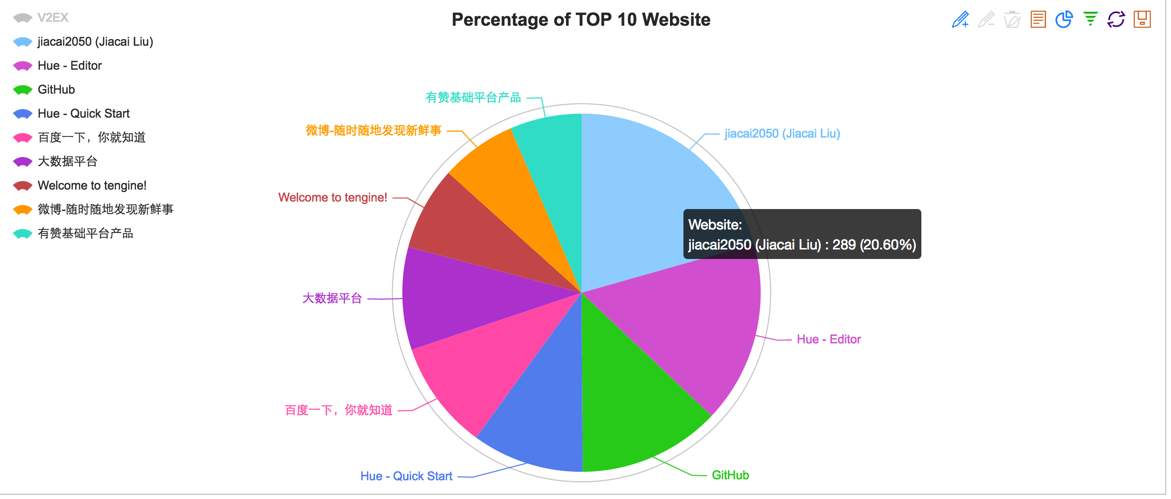
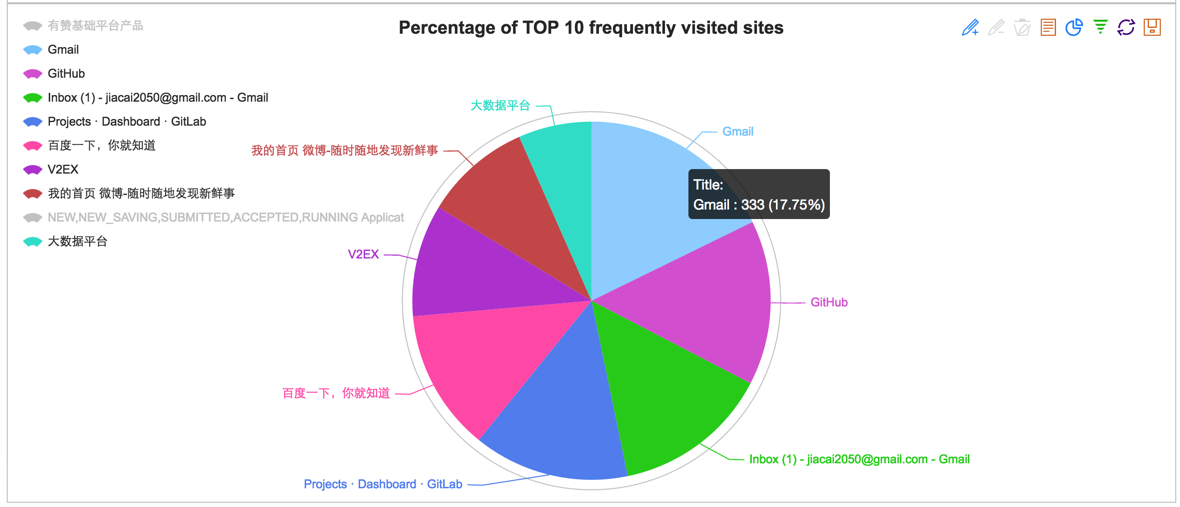
add test bump version to 1.0.2

Changed region(s): [[0.0, 0.0, 1.0, 0.992]]

diff --git a/assets/js/main.js b/assets/js/main.js
@@ -91,7 +91,7 @@ function initURLsPercent(ec, browser) {
     }
     URLsPercentChart.setOption({
         title : {
-            text: 'Percentage of TOP 10 Website',
+            text: 'Percentage of TOP 10 frequently visited sites',
             x:'center'
         },
         tooltip : {
@@ -127,7 +127,7 @@ function initURLsPercent(ec, browser) {
         calculable : true,
         series : [
             {
-                name:'Website: ',
+                name:'Title: ',
                 type:'pie',
                 radius : '75%',
                 center: ['50%', '60%'],

diff --git a/bin/index.js b/bin/index.js
@@ -3,6 +3,6 @@
 var program = require("commander");
 
 program
-    .command("webserver", "start a webserver for browsing statistics of history file", {isDefault: true})
+    .command("server", "start a server for browsing statistics of history file", {isDefault: true})
     .command("export", "export statistics of history file to csv documents")
     .parse(process.argv);

diff --git a/test/test_util.js b/test/test_util.js
@@ -1,0 +1,12 @@
+var util = require("../lib/util");
+var assert = require('chai').assert;
+
+describe('UTIL', ()=> {
+    describe("#purify_title()", () => {
+        var title = "'Apple'Red'Watch";
+        it(`purify [${title}]`, () => {
+            assert.equal("&#x27;Apple&#x27;Red&#x27;Watch", util.purify_title(title));
+        });
+
+    })
+});

diff --git a/app.js b/app.js
@@ -22,3 +22,7 @@ exports.start_server = function(firefox_history, chrome_history, port) {
         console.log("Listening on port %d...", port);
     });
 }
+
+if (require.main === module) {  // called directly
+    exports.start_server(null, null, 4455);
+}

diff --git a/README.md b/README.md
@@ -1,39 +1,51 @@
 ## better_history
 
-> Get a better sense of browsing history via Chrome/Firefox
+> 💡 Get a better sense of browsing history via Chrome/Firefox 💡
+
+[![NPM](https://nodei.co/npm/better-history.png?downloads=true&downloadRank=true&stars=true)](https://nodei.co/npm/better-history/)
 
 ## Feature
 
-- ![](https://raw.githubusercontent.com/jiacai2050/better-history/master/screenshots/line_chart.png)
-- ![](https://raw.githubusercontent.com/jiacai2050/better-history/master/screenshots/pie_chart.png)
-- ![](https://raw.githubusercontent.com/jiacai2050/better-history/master/screenshots/tunnel_chart.png)
-- ![](https://raw.githubusercontent.com/jiacai2050/better-history/master/screenshots/daterange.png)
+- Daily Page View Trending
+
+![](https://raw.githubusercontent.com/jiacai2050/better-history/master/screenshots/line_chart.png)
+
+- Percentage of TOP 10 frequently visited site
+
+![](https://raw.githubusercontent.com/jiacai2050/better-history/master/screenshots/pie_chart.png)
+
+- Frequently visited site in tunnel chart
+
+![](https://raw.githubusercontent.com/jiacai2050/better-history/master/screenshots/tunnel_chart.png)
+
+- customize browsing range
+
+![](https://raw.githubusercontent.com/jiacai2050/better-history/master/screenshots/daterange.png)
 
 
 ## Usage
 
+First of all,
 
 ```        
 npm install better-history -g
 ```
 
-- Start a local Webserver
+Then, you have two choices, either start a local server (preferred) to view or export statistics to csv documents.
+
+1. Start a local server, then visit http://localhost:4455.
 
 ```
 better-history
 ```
 
-- Export statistics to csv documents
+2. Export statistics to csv documents, default export directory is your `$HOME`.
 
 ```
 better-history export
 ```        
 
-- You can run `--help` to set more options.
-
-```
-better-history -h
-```
+3. In case of customization, run `better-history [server | export] -h` to set specific options regarding different subcommand.
 
 ## License
 

diff --git a/README-zh.md b/README-zh.md
@@ -1,8 +1,10 @@
 ## better_history
 
-> Get a better sense of browsing history via Chrome/Firefox
+> 💡 Get a better sense of browsing history via Chrome/Firefox 💡
 
 [英文文档](./README.md)
+
+[![NPM](https://nodei.co/npm/better-history.png?downloads=true&downloadRank=true&stars=true)](https://nodei.co/npm/better-history/)
 
 ## 特点
 
@@ -18,7 +20,7 @@
 npm install better-history -g
 ```
 
-- 开启本地Server
+- 开启本地 Server，然后访问 http://localhost:4455
 
 ```
 better-history
@@ -30,17 +32,13 @@ better-history
 better-history export
 ```        
 
-- 使用 `--help` 查看更多选项
-
-```
-better-history -h
-```
+- 运行`better-history [server | export] -h` 来设置不同子命令的参数。
 
 ## TODO
 
 - [x] 提供对 Firefox 的分析。（2016-01-16 完成）
 - [x] 提供`搜索关键字`相关信息的展示。个人觉得没什么价值，所以不做了。
-- [x] 发布到 [npm](https://www.npmjs.com/package/better-history)
+- [x] 发布到 [npm](https://www.npmjs.com/package/better-history) （2016-10-02 完成）
 - [ ] 提供更丰富的图表展示📈
 
 
